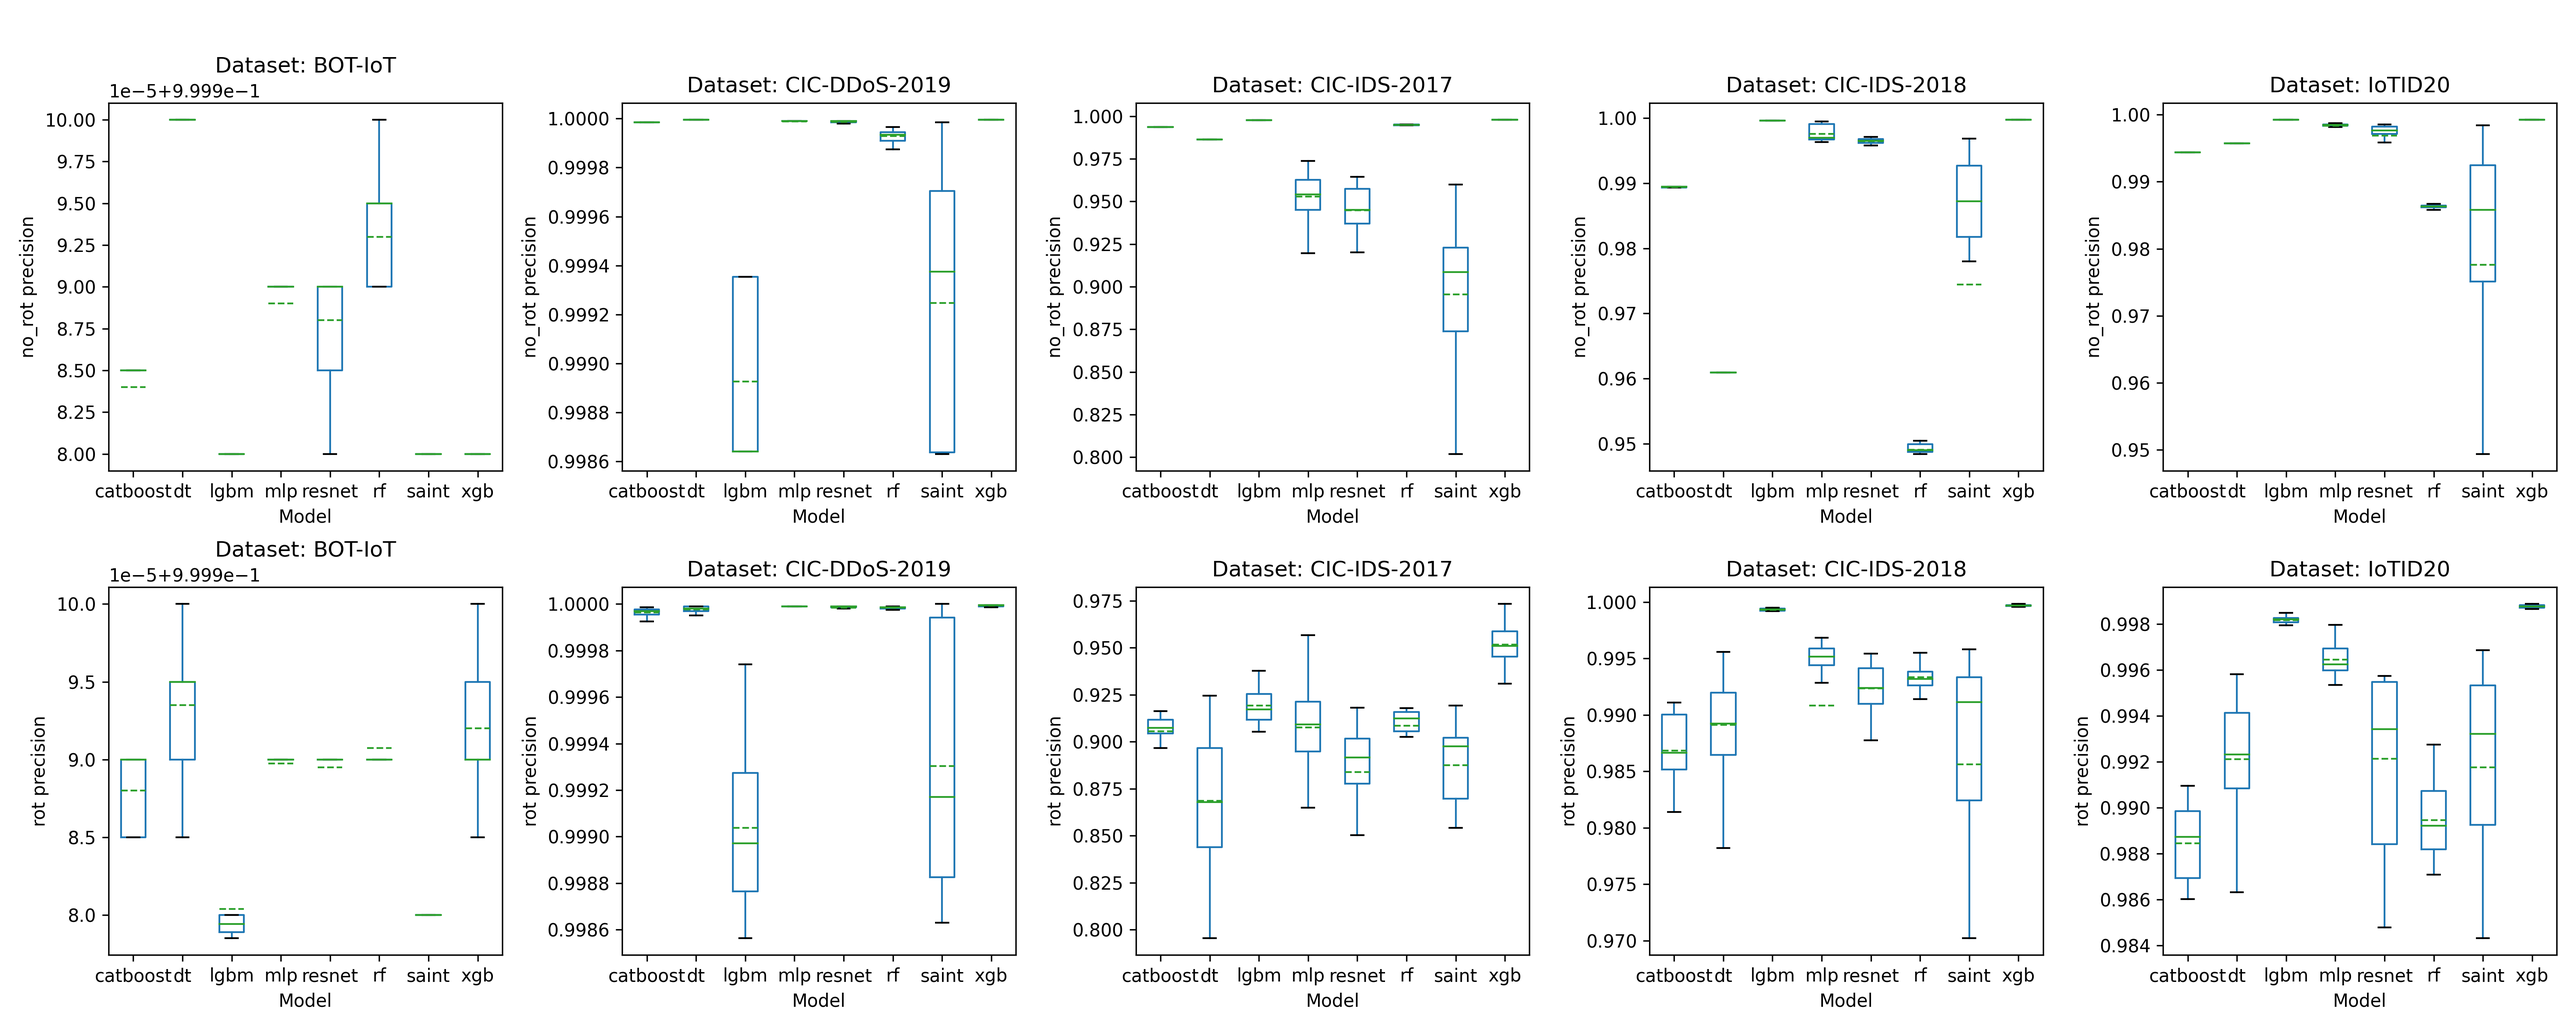
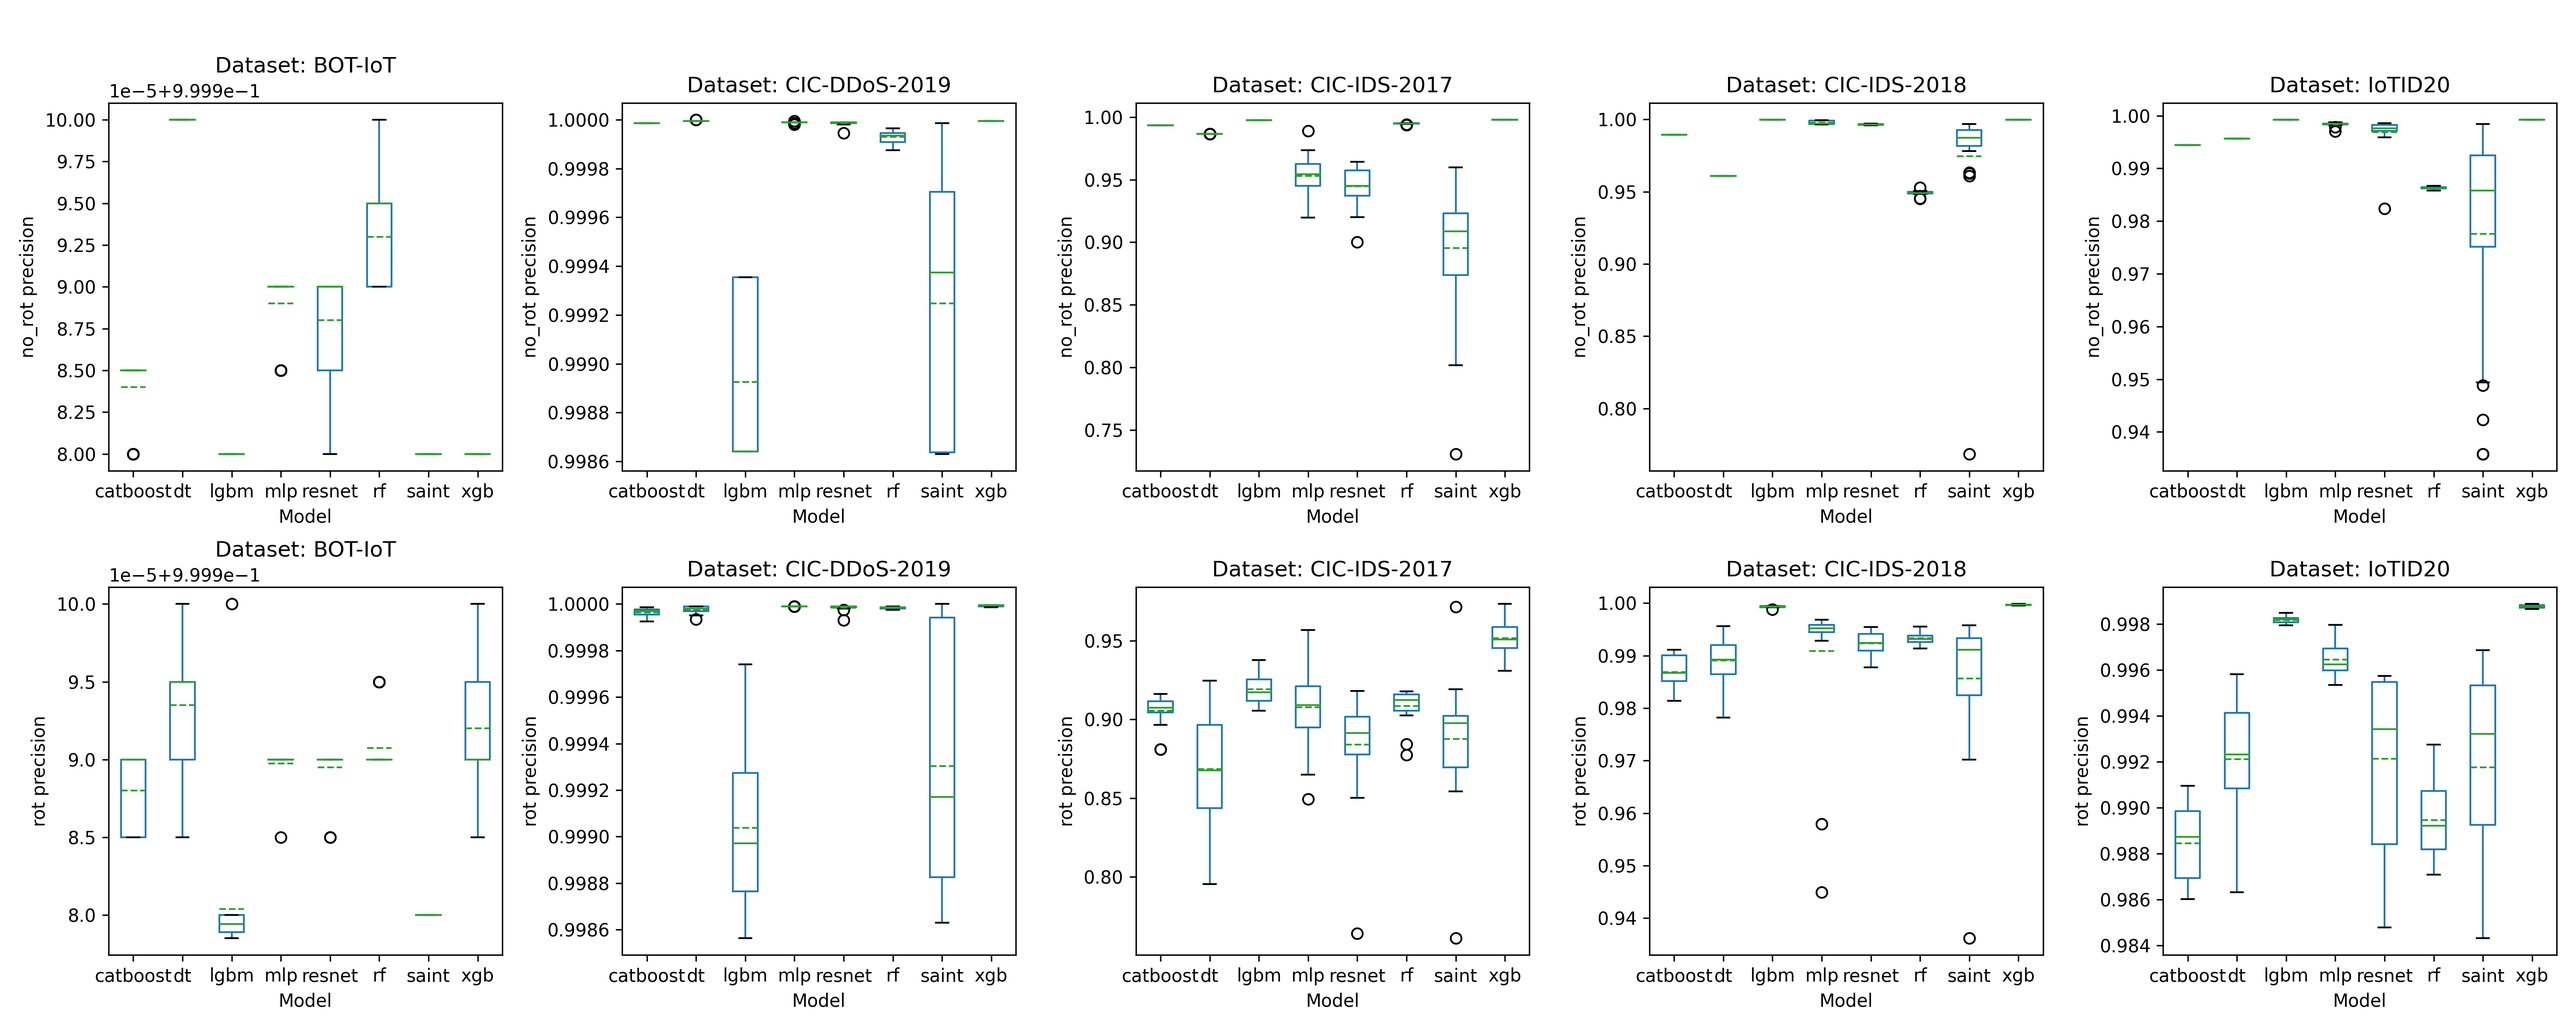
Calculate metrics' stats

diff --git a/src/plot_results.py b/src/plot_results.py
@@ -1,6 +1,7 @@
 import re
 import pandas as pd
 import matplotlib.pyplot as plt
+import ipdb
 
 
 def extract_data(df, col):
@@ -53,6 +54,9 @@ def plot_by_metrics():
         fig, axs = plt.subplots(2, 5, figsize=(20, 8), dpi=300)
         axs = axs.ravel()
 
+        # Create an empty DataFrame to store the statistics for all rotations of the dataset
+        all_rotation_stats = pd.DataFrame()
+
         for j, (rotation, rotation_group) in enumerate(
             metric_group.groupby("rotation")
         ):
@@ -69,8 +73,24 @@ def plot_by_metrics():
                 ax.set_ylabel(f"{rotation} {metric}")
 
                 boxplot_data.boxplot(
-                    ax=ax, grid=False, showfliers=False, showmeans=True, meanline=True
+                    ax=ax, grid=False, showfliers=True, showmeans=True, meanline=True
                 )
+
+                # Calculate statistics (median, mean, etc.) and store them in a DataFrame
+                boxplot_stats = boxplot_data.describe().transpose()
+                boxplot_stats.reset_index(inplace=True)
+                boxplot_stats.rename(columns={"index": "Model"}, inplace=True)
+
+                # Add a new column for the rotation
+                boxplot_stats["Rotation"] = rotation
+                boxplot_stats["Dataset"] = dataset
+
+                # Append the statistics to the DataFrame containing all rotations of the dataset
+                all_rotation_stats = pd.concat([all_rotation_stats, boxplot_stats])
+
+        # Export combined statistics to a CSV file
+        output_filename = f"boxplots/{metric}_stats.csv"
+        all_rotation_stats.to_csv(output_filename, index=False)
 
         plt.tight_layout()
         plt.subplots_adjust(top=0.9)

diff --git a/src/configs/model_config.py b/src/configs/model_config.py
@@ -1,5 +1,5 @@
-BATCH_SIZE = 4096
-EPOCHS = 20
+BATCH_SIZE = 512
+EPOCHS = 30
 LR = 0.001
 MAX_DEPTH = 5
 
